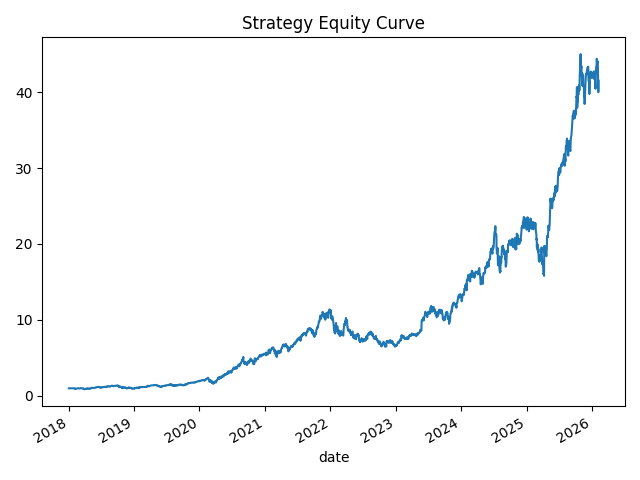
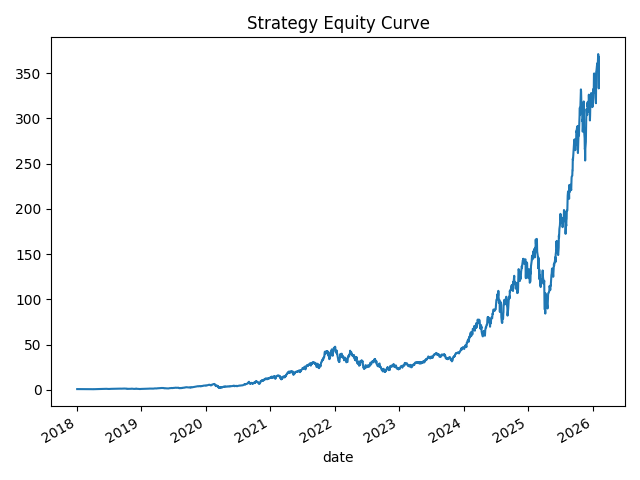
Expand universe and add model development document

diff --git a/src/config.py b/src/config.py
@@ -20,4 +20,6 @@ class Config:
         if self.universe is None:
             self.universe = [
                 "AAPL","MSFT","NVDA","AMZN","META","GOOGL","TSLA","AMD","AVGO","ASML",
+                "JPM","JNJ","XOM","PG","UNH","HD","COST","PEP","KO","DIS",
+                "BAC","WMT","V","MA","PFE","ABBV","CRM","ORCL","INTC","QCOM",
             ]

diff --git a/docs/Model_Development_Document.md b/docs/Model_Development_Document.md
@@ -1,0 +1,121 @@
+# Model Development Document (MDD)
+
+**Project:** Quant Equity System (FinWorld Core)
+
+**Date:** 2026-02-07
+
+## 1) Objective
+Design and evaluate an end-to-end quantitative stock selection system using FinWorld Alpha158 factors plus additional signals, with walk-forward training, portfolio construction, and explicit risk management. The system must be fully reproducible and data-driven using free public data sources.
+
+---
+
+## 2) Data & Universe
+**Data Source:** Yahoo Finance via `yfinance` (auto-adjusted OHLCV).
+
+**Universe (30 large caps):**
+AAPL, MSFT, NVDA, AMZN, META, GOOGL, TSLA, AMD, AVGO, ASML, JPM, JNJ, XOM, PG, UNH, HD, COST, PEP, KO, DIS, BAC, WMT, V, MA, PFE, ABBV, CRM, ORCL, INTC, QCOM.
+
+**Benchmark:** SPY (downloaded but used only for optional comparison).
+
+**Date Range:** Start 2018-01-01 (configurable in `src/config.py`).
+
+---
+
+## 3) Feature Engineering
+**Core engine:** FinWorld `Alpha158` factor set (OHLCV-based). Each ticker is processed independently to avoid cross-asset leakage.
+
+**Additional features (derived):**
+- `mom_12m`: rolling mean of 60‑day ROC (proxy for 12‑month momentum).
+- `vol_20`: 20‑day volatility from Alpha158 (`std_20`).
+
+**Key design notes:**
+- All factors computed on historical OHLCV only.
+- No forward-looking data is used in feature calculation.
+
+---
+
+## 4) Model
+**Type:** Ridge regression (linear, L2-regularized).
+
+**Target:** 1‑month forward return (21 trading days).
+
+**Features used:**
+- `mom_12m`
+- `vol_20`
+- `ma_20`
+- `std_20`
+- `roc_10`
+- `roc_20`
+
+**Training protocol:**
+- Walk‑forward: at each rebalance date, the model is trained on all data up to **t‑1**.
+- Scoring uses only data available at rebalance date.
+
+---
+
+## 5) Portfolio Construction
+**Selection:** Top‑N ranked stocks by model score.
+
+**Sizing:** Inverse volatility weights.
+
+**Constraints:**
+- Max single position: 15%
+- Re‑normalized after capping
+
+**Rebalance frequency:** Monthly (last trading day of month).
+
+---
+
+## 6) Risk Management
+**Volatility targeting:** 15% annualized (rolling 63‑day vol).
+
+**Drawdown control:** Reduce exposure by 50% if drawdown worse than −20%.
+
+**Transaction costs:** 10 bps per turnover.
+
+---
+
+## 7) Backtest Engine
+Daily PnL computed with explicit weights, turnover costs, and scaling from risk controls.
+
+Outputs saved to:
+- `outputs/daily_returns.csv`
+- `outputs/metrics.csv`
+- `outputs/equity_curve.png`
+
+---
+
+## 8) Results (latest run)
+**Metrics:**
+
+| CAGR | Volatility | Sharpe | Sortino | Max Drawdown | Avg Daily Turnover |
+|---:|---:|---:|---:|---:|---:|
+| 1.0777 | 0.6300 | 1.7106 | 2.3320 | -0.6450 | 0.0286 |
+
+**Equity Curve:**
+
+![Equity Curve](../outputs/equity_curve.png)
+
+---
+
+## 9) Model Outputs
+- **Daily returns series** (`outputs/daily_returns.csv`)
+- **Performance metrics** (`outputs/metrics.csv`)
+- **Equity curve plot** (`outputs/equity_curve.png`)
+
+---
+
+## 10) Limitations & Future Work
+- Universe is limited to 30 large caps (can be expanded).
+- No sector constraints due to lack of free sector data.
+- Factor library is OHLCV‑based only; no fundamentals.
+- Ridge regression is a baseline; could be replaced with tree‑based or nonlinear models.
+
+---
+
+## 11) Reproducibility
+Run end‑to‑end:
+```bash
+python scripts/run_all.py
+```
+All outputs are regenerated deterministically from public data.
